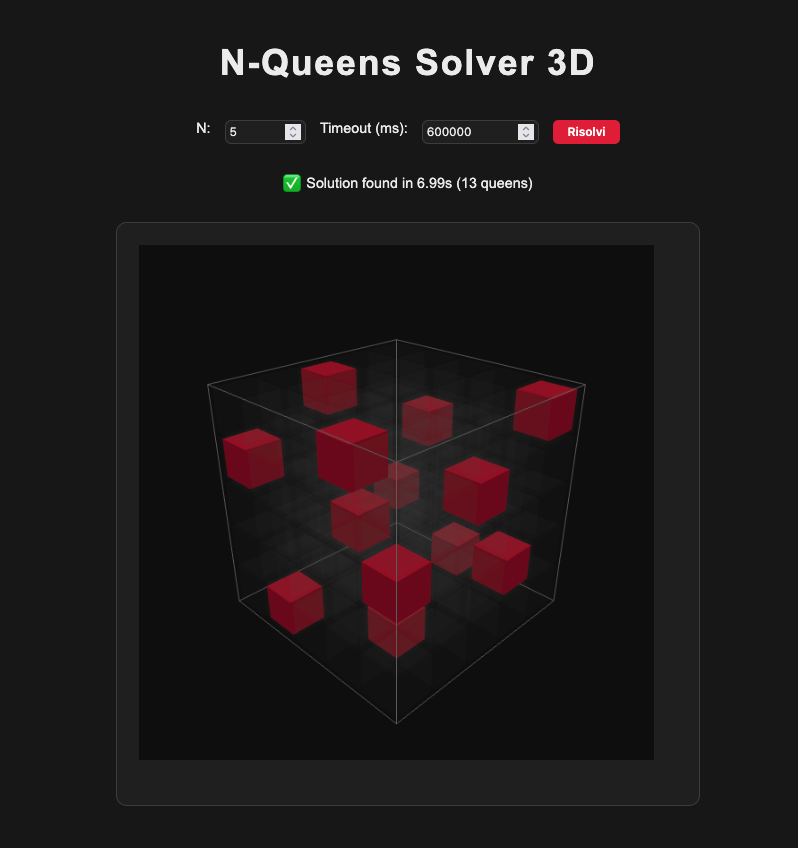
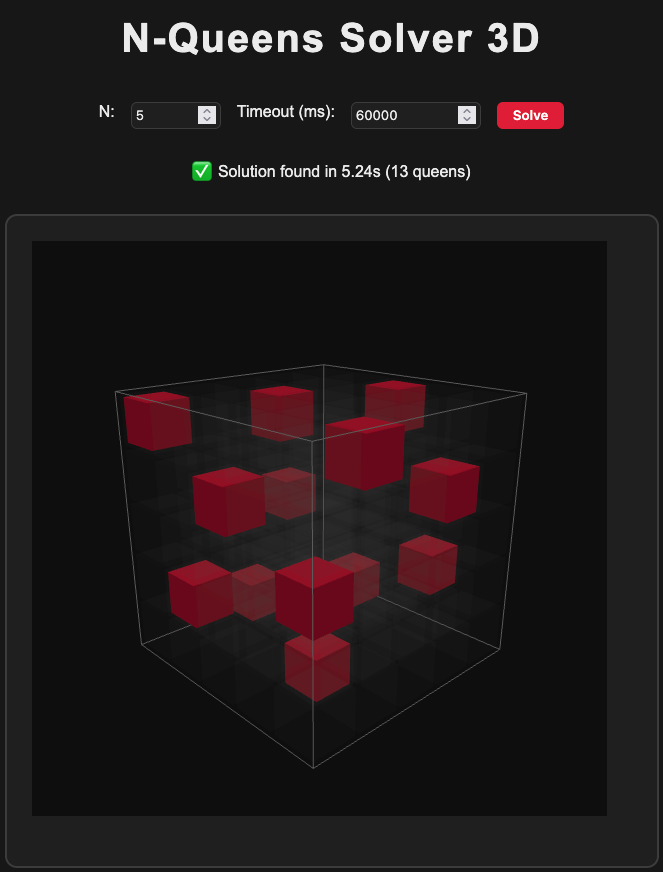
Translating and final review
Translate comment and text in english, reviewing code and README.md

diff --git a/3d-queen-viewer/src/App.jsx b/3d-queen-viewer/src/App.jsx
@@ -9,7 +9,7 @@ export default function Queen3DViewer({ n, queenPositions = [] }) {
     const mount = mountRef.current;
     if (!mount) return;
 
-    // --- Crea scena, camera e renderer
+    // --- Create scene, camera and renderer
     const scene = new THREE.Scene();
     scene.background = new THREE.Color(0x0b0b0b);
 
@@ -24,7 +24,7 @@ export default function Queen3DViewer({ n, queenPositions = [] }) {
     renderer.setPixelRatio(window.devicePixelRatio || 1);
     mount.appendChild(renderer.domElement);
 
-    // --- Luci di scena
+    // --- Scene lights
     const hemi = new THREE.HemisphereLight(0xffffff, 0x444444, 0.9);
     hemi.position.set(0, n * 2, 0);
     scene.add(hemi);
@@ -32,17 +32,17 @@ export default function Queen3DViewer({ n, queenPositions = [] }) {
     dir.position.set(n, n * 2, n);
     scene.add(dir);
 
-    // --- Controlli orbit per ruotare la visuale
+    // --- Orbit controls for rotating the view
     const controls = new OrbitControls(camera, renderer.domElement);
     controls.enableDamping = true;
     controls.dampingFactor = 0.08;
     controls.rotateSpeed = 0.6;
 
-    // --- Gruppo principale per gli oggetti
+    // --- Objects main gruop
     const group = new THREE.Group();
     scene.add(group);
 
-    // --- Crea la griglia 3D semitrasparente
+    // --- Create the semitransparent 3D grid
     const cellSize = 0.9;
     const gridMat = new THREE.MeshStandardMaterial({
       color: 0x999999,
@@ -74,17 +74,17 @@ export default function Queen3DViewer({ n, queenPositions = [] }) {
     }
     group.add(gridInstanced);
 
-    // --- Contorno del cubo principale
+    // --- Outline of the main cube
     const bbox = new THREE.BoxGeometry(n, n, n);
     const edges = new THREE.EdgesGeometry(bbox);
     const line = new THREE.LineSegments(edges, new THREE.LineBasicMaterial({ color: 0x666666 }));
     group.add(line);
 
-    // --- Crea le regine rosse
+    // --- Create red queens
     const queenGeo = new THREE.BoxGeometry(cellSize * 0.9, cellSize * 0.9, cellSize * 0.9);
     const queenMat = new THREE.MeshStandardMaterial({ color: 0xff3333, metalness: 0.2, roughness: 0.4 });
 
-    // 🔹 Qui vengono posizionate le regine secondo il risultato del solver
+    // --- Here the queens are placed according to the solver result
     const queenInstanced = new THREE.InstancedMesh(queenGeo, queenMat, queenPositions.length);
     const tmpMat = new THREE.Matrix4();
 
@@ -98,7 +98,7 @@ export default function Queen3DViewer({ n, queenPositions = [] }) {
 
     group.add(queenInstanced);
 
-    // --- Gestione del resize finestra
+    // --- Window resize management
     const onResize = () => {
       const w = mount.clientWidth;
       const h = mount.clientHeight;
@@ -108,7 +108,7 @@ export default function Queen3DViewer({ n, queenPositions = [] }) {
     };
     window.addEventListener('resize', onResize);
 
-    // --- Animazione loop
+    // --- Loop animation
     let rafId;
     const animate = () => {
       controls.update();

diff --git a/templates/index.html b/templates/index.html
@@ -17,14 +17,14 @@
     <!-- Controls -->
     <div class="controls" style="display: flex; justify-content: center; gap: 1em; margin-bottom: 2em;">
       <label for="n">N:</label>
-      <input id="n" type="number" value="6" min="1" max="20"
+      <input id="n" type="number" value="5" min="1" max="20"
         style="width: 80px; padding: 0.3em; border-radius: 6px; border: 1px solid #444; background: #222; color: #eee;" />
       <label for="timeout">Timeout (ms):</label>
-      <input id="timeout" type="number" value="10000" min="1000"
+      <input id="timeout" type="number" value="60000" min="1000"
         style="width: 120px; padding: 0.3em; border-radius: 6px; border: 1px solid #444; background: #222; color: #eee;" />
       <button id="solveBtn"
         style="padding: 0.4em 1.2em; border-radius: 6px; border: none; background: #e53935; color: #fff; font-weight: 600; cursor: pointer;">
-        Risolvi
+        Solve
       </button>
     </div>
     <div id="status" class="status" style="text-align: center; margin-bottom: 1em;"></div>

diff --git a/3d-queen-viewer/src/main.jsx b/3d-queen-viewer/src/main.jsx
@@ -7,7 +7,7 @@ window.renderQueens = (n, queenPositions) => {
 
   const container = document.getElementById('viewer');
   if (container) {
-    // Pulizia: resetta il contenuto precedente prima di re-renderizzare
+    // Cleaning: reset the content before ri-render 
     container.innerHTML = '';
     const root = ReactDOM.createRoot(container);
     root.render(
@@ -16,6 +16,6 @@ window.renderQueens = (n, queenPositions) => {
       </React.StrictMode>
     );
   } else {
-    console.error("[ERRORE] Elemento #viewer non trovato in index.html");
+    console.error("[ERROR] #viewer Element not found in index.html");
   }
 };

diff --git a/3d-queen-viewer/vite.config.js b/3d-queen-viewer/vite.config.js
@@ -4,12 +4,12 @@ import react from '@vitejs/plugin-react'
 export default defineConfig({
   plugins: [react()],
   build: {
-    outDir: '../static',   // Flask servirà da questa cartella, salva il bundle in /static
+    outDir: '../static',   
     emptyOutDir: false,
     rollupOptions: {
       input: 'src/main.jsx',
       output: {
-        entryFileNames: 'viewer.js',  // nome del bundle finale
+        entryFileNames: 'viewer.js', 
         assetFileNames: 'asset/[name][extname]'
       }
     }

diff --git a/solver.py b/solver.py
@@ -1,22 +1,21 @@
 from z3 import *
-from multiprocessing import Process, Queue, cpu_count
+from multiprocessing import Queue
 import json 
 import time
 import os
 
-def solve_n_queens(n, timeout_ms, fixed_pos=None, queue=None):
-    # --- Creazione optimizer
+def solve_n_queens(n, timeout_ms,queue=None):
+    # --- Create optimizer
     opt = Optimize()
 
-    # --- Variabili booleane: Q[x][y][z] = True se c’è una regina in (x,y,z)
+    # --- Boolean Matrix: Q[x][y][z] = True there is a queen in (x,y,z)
     Q = [[[Bool(f"Q_{x}_{y}_{z}") for z in range(n)] for y in range(n)] for x in range(n)]
 
     # ============================
-    #           Vincoli
+    #         Costraints
     # ============================  
-
     
-    # Al Max una per Asse XYZ
+    # XYZ 
     [opt.add(AtMost(*[Q[x][y][z] for x in range(n)], 1)) for y in range(n) for z in range(n)]
     [opt.add(AtMost(*[Q[x][y][z] for y in range(n)], 1)) for x in range(n) for z in range(n)]
     [opt.add(AtMost(*[Q[x][y][z] for z in range(n)], 1)) for x in range(n) for y in range(n)]
@@ -41,33 +40,28 @@ def solve_n_queens(n, timeout_ms, fixed_pos=None, queue=None):
         for x in range(n) for s in range(2*n - 1)])
     
   
-
-    # direzioni indipendenti (4): (1,1,1), (1,1,-1), (1,-1,1), (1,-1,-1)
+    # Indipendent directons (4): (1,1,1), (1,1,-1), (1,-1,1), (1,-1,-1)
     dirs = [(1,1,1),(1,1,-1),(1,-1,1),(1,-1,-1)]
-
     for x in range(n):
         for y in range(n):
             for z in range(n):
                 for dx,dy,dz in dirs:
-                    # costruisco la lista delle celle successive lungo il raggio positivo
+                    # make the list of subsequent cells along the positive radius
                     targets_pos = [(x + t*dx, y + t*dy, z + t*dz) for t in range(1, n) 
                                 if 0 <= x + t*dx < n and 0 <= y + t*dy < n and 0 <= z + t*dz < n]
                     if targets_pos:
                         opt.add(Implies(Q[x][y][z], And([Not(Q[xx][yy][zz]) for (xx,yy,zz) in targets_pos])))
-                    # costruisco la lista delle celle lungo il raggio opposto (per sicurezza esplicita)
+                    # make the list of cells along the opposite radius (for explicit safety)
                     targets_neg = [(x - t*dx, y - t*dy, z - t*dz) for t in range(1, n) 
                                 if 0 <= x - t*dx < n and 0 <= y - t*dy < n and 0 <= z - t*dz < n]
                     if targets_neg:
                         opt.add(Implies(Q[x][y][z], And([Not(Q[xx][yy][zz]) for (xx,yy,zz) in targets_neg])))
 
 
-
-
     # ====================================
     #              Obiettivo
     # ====================================
     start = time.time()
-
 
     try:
         opt.set('timeout', int(timeout_ms))
@@ -84,7 +78,7 @@ def solve_n_queens(n, timeout_ms, fixed_pos=None, queue=None):
         m = opt.model()
         solution = [[[1 if m.evaluate(Q[x][y][z]) else 0 for z in range(n)]
                      for y in range(n)] for x in range(n)]
-        #print(f"\n=== Soluzione trovata per N={n} ===")
+        #print(f"\n=== Solution found for N={n} ===")
         #for x in range(n):
         #    print(f"\nLayer X={x}:")
         #    for y in range(n):
@@ -101,7 +95,6 @@ def solve_n_queens(n, timeout_ms, fixed_pos=None, queue=None):
                 'solution': solution,
                 'objective': int(obj_val),
                 'time_sec': elapsed,
-                'fixed_pos': fixed_pos
             })
     elif queue:
         queue.put({'status': str(result), 'fixed_pos': fixed_pos})

diff --git a/server.py b/server.py
@@ -22,12 +22,12 @@ def solve_route():
 
     timeout_ms = data.get('timeout_ms', 60000)
 
-    # Crea la coda per ricevere il risultato dal solver
+    # Create the queue to receive results from solver
     q = Queue()
     start_time = time.time()
     solve_n_queens(n, timeout_ms, queue=q)
 
-    # Attendi risultato
+    # wait results
     try:
         result = q.get(timeout=timeout_ms / 1000)
     except Exception as e:
@@ -35,7 +35,7 @@ def solve_route():
 
     elapsed = time.time() - start_time
 
-    # Controlla che la chiave 'solution' esista
+    # Check if 'solution' key exists 
     if isinstance(result, dict) and 'solution' in result:
         return jsonify({
             'status': 'sat',

diff --git a/README.md b/README.md
@@ -9,26 +9,39 @@
 [![JavaScript](https://img.shields.io/badge/JavaScript-F7DF1E?logo=javascript&logoColor=000)](#)
 [![CSS](https://img.shields.io/badge/CSS-639?logo=css&logoColor=fff)](#)
 
-<img src="Screenshot.png" alt="Screenshot" width="600">
+
+<img src="Screenshot.png" alt="Screenshot" width="600" >
 
 ## Description
 
+N_Queen_3D is a three-dimensional implementation of the N-Queens problem: how can we place n queens on an $n^2$ chessboard so that they do not attack each other?
+By extending this to three dimensions, I wondered: how many queens can I place in an $n^3$ cube without them attacking each other?
+Definition of Queen Moves in 3D (Problem Constraints)
+### Queens can attack along:
+- The 3 Cartesian axes
+- The 6 two-dimensional diagonals
+- The 4 three-dimensional diagonals
+### Difference in Constraints Compared to the 2D Case
+In 2D, there are 5 main constraints to express:
+- 2 to ensure there is at least one queen per row and per column
+- 3 to ensure no more than one queen per row, column, or diagonal
+
+Therefore, in the 2D case, there are always exactly n queens on an $n^2$ chessboard.
+However, in the 3D case, I approached it differently:
+I removed the constraint that enforces at least one queen per row and column, and kept only uniqueness constraints for all possible attack moves.
+Otherwise, the problem would become unsatisfiable — since requiring at least one queen per row, column, and layer would make it impossible to satisfy all constraints simultaneously.
 
 
 
-#### Input to expected time formula
-$$t\left(n\right)=10^{-10}\cdot e^{n^{2}}+0.01$$
+## Getting started
+1) Clone the repository and ```cd``` into
+2) Run ```python3 -m venv .venv; source .venv/bin/activate``` 
+3) ```pip3 install z3-solver flask```
+4) ```python3 server.py```
+5) Open browser and go  ```http://localhost:5000```
 
 
 
-### Installation process
-- clone repository
-- create .venv
-- install with pip z3-solver & flask
-- run python3 server.py
-- go localhost:5000
-- enjoy
+## Project status
+This project was developed for university purposes. Don’t expect any updates or fixes — it is and will remain as it is (but never say never).
 
-
-#### Disclaimer
-questo è un progetto realizzato per l'università, non aspettatevi che vada avanti, lo mentenga o lo fixxi, questo è , questo rimane
